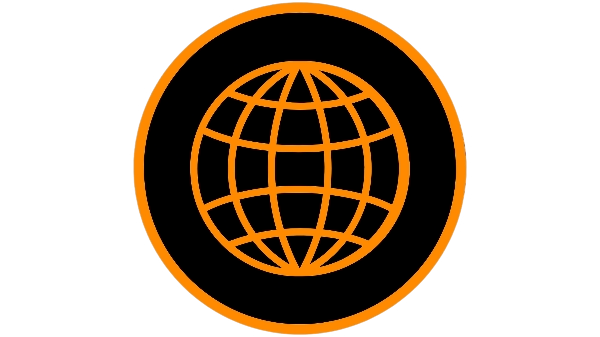
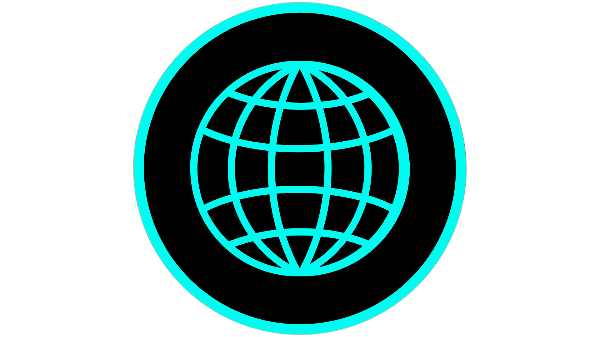
small changes on AR Portfolio

Changed region(s): [[0.3, 0.178, 0.69, 0.8309], [0.21, 0.0, 0.78, 1.0]]

diff --git a/ARPortfolio.js b/ARPortfolio.js
@@ -73,7 +73,7 @@ function handleSelection() {
                     'second semester of my Augmented and Virtual Reality Design studies (made with Unity).');
 
                 // elements
-                playProjectVideo('videos/RTMvideo.mp4');
+                playProjectVideo('assets/Videos/RTM.mp4');
                 break;
 
             case "project2":
@@ -84,9 +84,9 @@ function handleSelection() {
                 headerEl.setAttribute('value', 'Goethe’s Puppet Theater (2025)');
                 // text
                 projectTextEl.setAttribute('visible', true);
-                projectTextEl.setAttribute('value', 'Goethe’s Puppet Theater is a Mixed Reality application developed for the Goethe Museum by a team of three during our fifth semester. Our idea was to bring fictional or real characters from Goethe’s life to life and explore how they would interact with each other in the form of a theatrical play. We used Unity as the foundation of the project, and to simulate the conversations, we utilized ChatGPT. The dialogues are generated live. In addition, we motion-captured over 80 animations. The AI selects animations that match the dialogue to give the conversation more realism. We also presented this project at the "Showtech" in Berlin in 2025. Additionally, we implemented ragdoll and cloth physics to make the user interaction more convincing.');
+                projectTextEl.setAttribute('value', 'A mixed reality application, created with Unity. We combined AI with motion captured animations to bring puppets from Goethes universe to live.');
                 // elements
-                playProjectVideo('videos/GPTvideo1.mp4');
+                playProjectVideo('assets/Videos/GPT.mp4');
                 _puppetsButton.setAttribute('visible', true);
                 break;
 
@@ -97,7 +97,7 @@ function handleSelection() {
                 headerEl.setAttribute('value', 'Ascension to Olympus (2024)');
                 // text
                 projectTextEl.setAttribute('visible', true);
-                projectTextEl.setAttribute('value', '"Ascension to Olympus" is an environment showcase in the ancient Greek style, developed using Unreal Engine 5. In this project, I applied various guidance techniques that I learned in a universal level design course to orient the player through the level. In addition, I researched the associated architecture and modeled all the buildings as well as a large portion of the plants and assets myself. Furthermore, I scanned, rigged, and placed myself as a large statue in the scene.');
+                projectTextEl.setAttribute('value', '"An environment showcase in the ancient Greek style, developed using Unreal Engine 5. In this project, I applied various guidance techniques that I learned in a universal level design course to orient the player through the level.');
                 // elements
                 playProjectVideo('videos/AtO.mp4');
                 break;

diff --git a/ARPortfolio.html b/ARPortfolio.html
@@ -222,7 +222,6 @@
         <a-text
                 id="projectText"
                 value=""
-                font="fonts/RubikDirt-Regular-msdf.json"
                 align="left"
                 baseline="top"
                 width="0.7"
@@ -231,7 +230,7 @@
                 position="-0.1 0.15 0.1"
                 visible="false"
                 color="#FFFFFF"
-                negate="false"
+                negate="true"
                 shader="msdf">
         </a-text>
 